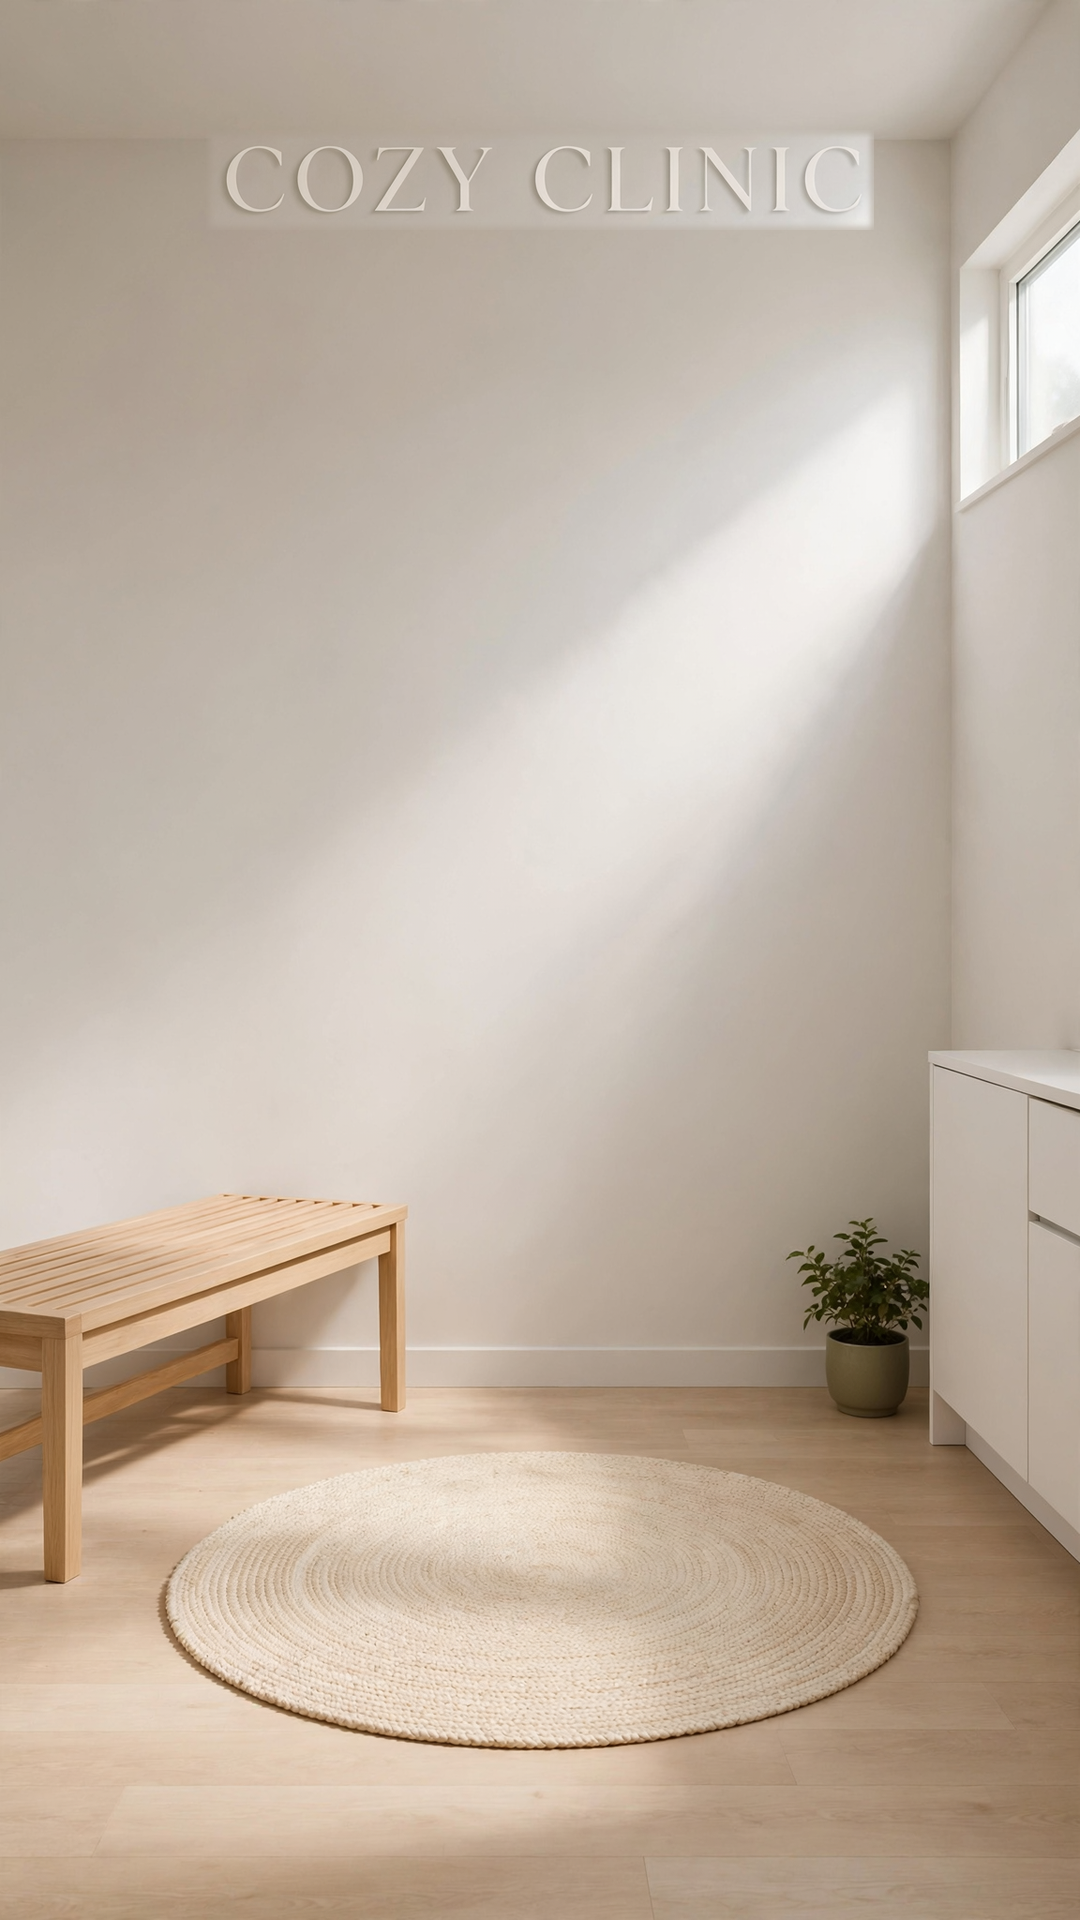
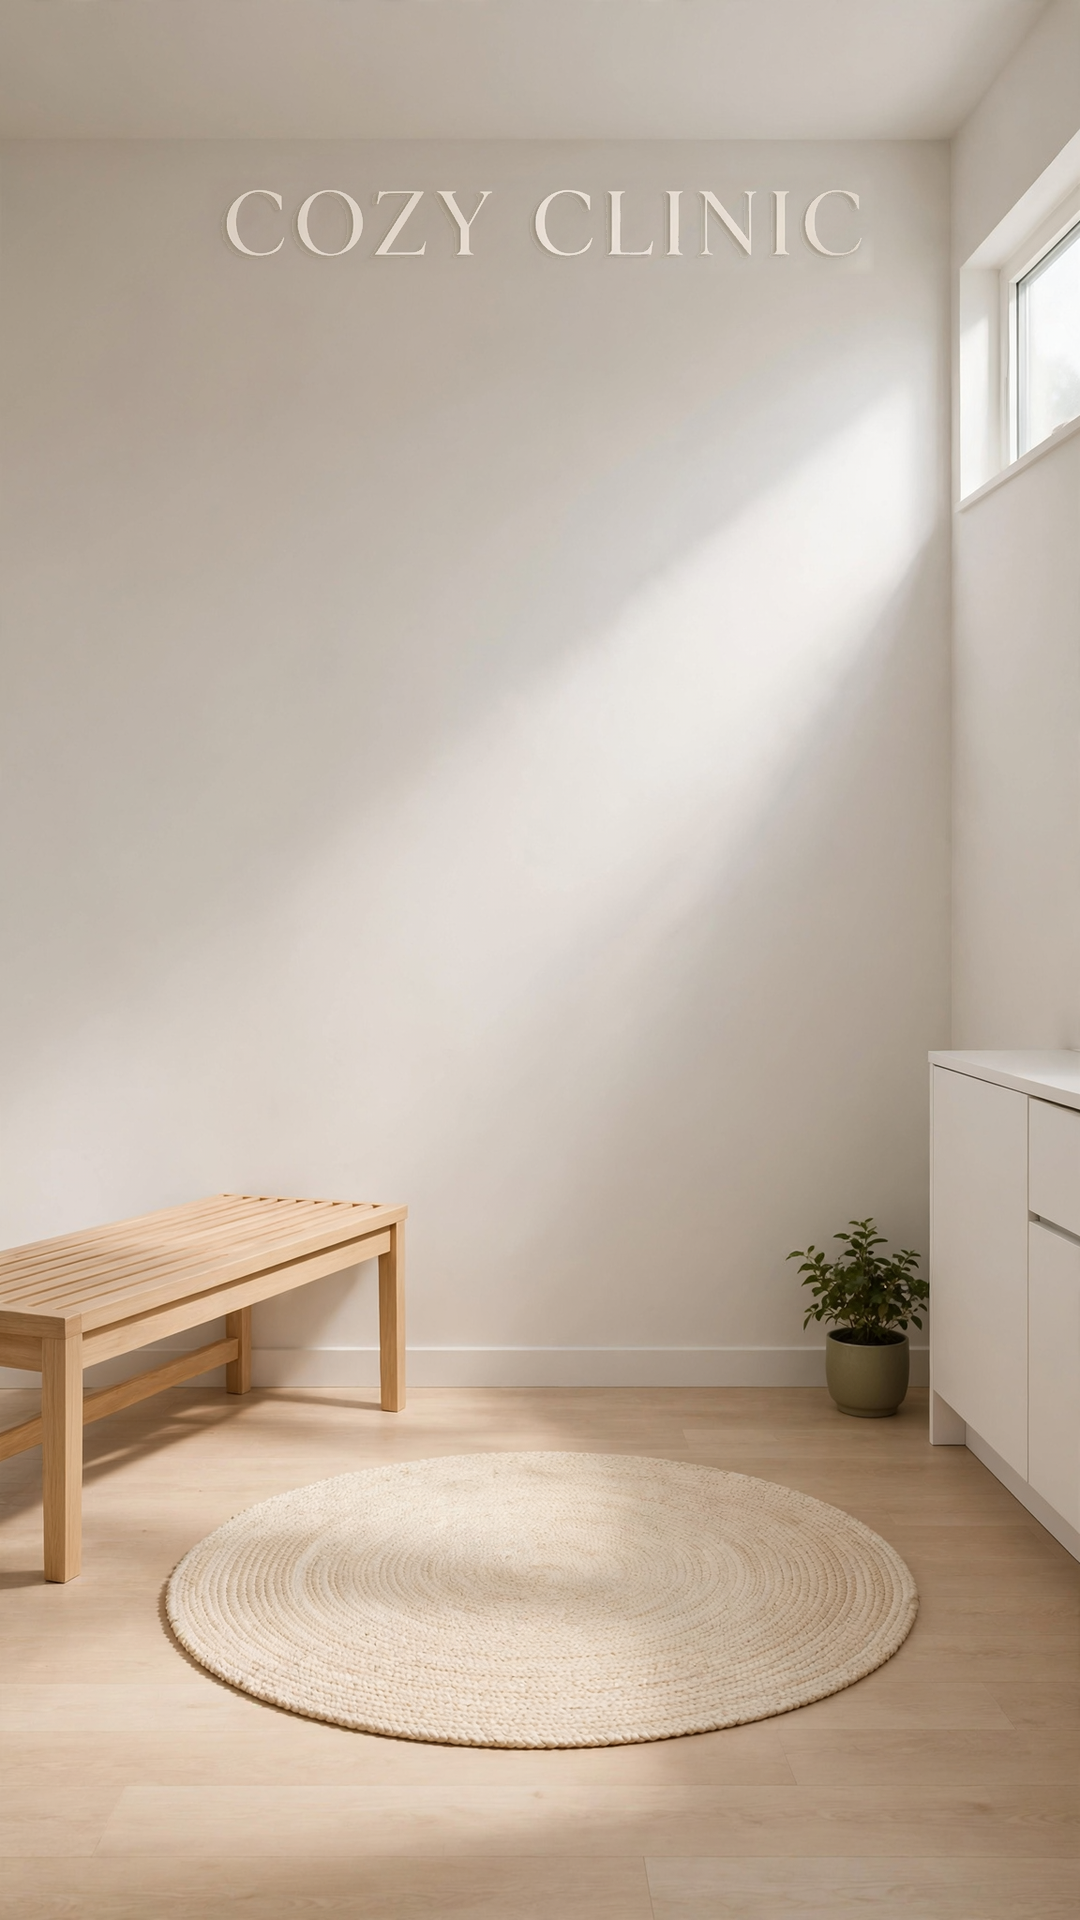
Sign3 + pathognomonic exam quizzes
- Sign letters onto the wall (y112) at readable-shy contrast, seams clean
- Exam bests reveal THE finding (turgor, Centor, wheeze, cuff); wrong picks
  clearly wrong; pairing test added
- Auditor 0 findings; 91/91; tsc clean; build green

diff --git a/src/clinical/conditions.ts b/src/clinical/conditions.ts
@@ -24,9 +24,9 @@ export const CONDITIONS: Record<string, ConditionDef> = {
     name: 'Dehydration',
     plainWords: 'Not enough water in the body. Everything feels dry and slow.',
     examOptions: [
-      { id: 'lung-sounds', label: 'Lung sounds' },
+      { id: 'throat-swab', label: 'Throat swab' },
       { id: 'skin-spring', label: 'Skin spring-back' },
-      { id: 'ear-peek', label: 'Ear peek' },
+      { id: 'belly-sounds', label: 'Belly sounds' },
     ],
     examBestId: 'skin-spring',
     bestFinding: 'Lifted skin stays peaked — poor turgor, very dry inside.',
@@ -85,7 +85,7 @@ export const CONDITIONS: Record<string, ConditionDef> = {
     plainWords: 'A common cold: sniffles, sneezes, and a worn-out feeling.',
     examOptions: [
       { id: 'neck-glands', label: 'Neck glands' },
-      { id: 'runny-nose', label: 'Runny nose' },
+      { id: 'skin-spring', label: 'Skin spring-back' },
       { id: 'belly-sounds', label: 'Belly sounds' },
     ],
     examBestId: 'neck-glands',
@@ -144,17 +144,17 @@ export const CONDITIONS: Record<string, ConditionDef> = {
     name: 'Asthma',
     plainWords: 'Tight, twitchy airways that turn breaths whistly.',
     examOptions: [
-      { id: 'temperature', label: 'Temperature' },
-      { id: 'ear-peek', label: 'Ear peek' },
-      { id: 'peak-flow', label: 'Peak-flow blows' },
+      { id: 'throat-swab', label: 'Throat swab' },
+      { id: 'ankle-check', label: 'Ankle check' },
+      { id: 'wheeze-listen', label: 'Listen for the whistle' },
     ],
-    examBestId: 'peak-flow',
-    bestFinding: 'The blow number is low — air is leaving the lungs slowly.',
+    examBestId: 'wheeze-listen',
+    bestFinding: 'Soft whistles on breathing out — the classic asthma sound.',
     dxOptions: ['viral-respiratory', 'asthma', 'dehydration'],
     examQuiz: {
-      gentle: "{name}'s breaths sound whistly. What do you measure first?",
-      steady: 'Whistly breaths and a tight chest. What do you measure first?',
-      expert: '{demo} with wheeze. Which bedside measure tracks the flare?',
+      gentle: "{name}'s chest feels tight and funny. What do you check first?",
+      steady: 'Tight chest, hard to breathe. What do you check first?',
+      expert: '{demo} with chest tightness. Which check reveals the key finding?',
     },
     stages: [
       { id: 'clear', label: 'Clear', blurb: 'Breathing easy.', says: "Just here for my check-in — I'm breathing easy!" },
@@ -204,9 +204,9 @@ export const CONDITIONS: Record<string, ConditionDef> = {
     name: 'High Blood Pressure',
     plainWords: 'Blood pressure running higher than it should be.',
     examOptions: [
-      { id: 'temperature', label: 'Temperature' },
+      { id: 'ear-peek', label: 'Ear peek' },
       { id: 'recuff', label: 'Re-check the cuff' },
-      { id: 'ankle-check', label: 'Ankle check' },
+      { id: 'throat-swab', label: 'Throat swab' },
     ],
     examBestId: 'recuff',
     bestFinding: 'After five quiet minutes the cuff still reads high — it counts.',

diff --git a/src/clinical/engine.test.ts b/src/clinical/engine.test.ts
@@ -1,6 +1,6 @@
 import { describe, expect, it } from 'vitest';
 import { ClinicalEngine } from './engine';
-import { CONDITIONS, CONDITION_TIER_NAMES } from './conditions';
+import { CONDITIONS, CONDITION_TIER_NAMES, EXAM_OTHER_FINDING } from './conditions';
 import type { ConditionId } from './types';
 
 const CONDITION_IDS = Object.keys(CONDITIONS) as ConditionId[];
@@ -186,5 +186,21 @@ describe('shipped copy', () => {
       d.examOptions.findIndex((o) => o.id === d.examBestId),
     );
     expect(new Set(examSlots).size).toBeGreaterThan(1);
+  });
+
+  it('pairs each exam quiz with its distinctive finding', () => {
+    // The best step must reveal THE finding worth teaching —
+    // turgor, Centor nodes, wheeze, repeat cuff — and wrong
+    // picks must read as wrong, never as alternate credit.
+    const keywords: Record<ConditionId, string> = {
+      dehydration: 'turgor',
+      'viral-respiratory': 'Centor',
+      asthma: 'whistle',
+      hypertension: 'cuff',
+    };
+    for (const def of Object.values(CONDITIONS)) {
+      expect(def.bestFinding).toContain(keywords[def.id]);
+      expect(EXAM_OTHER_FINDING).not.toContain(keywords[def.id]);
+    }
   });
 });

diff --git a/CHECKPOINT.md b/CHECKPOINT.md
@@ -1,18 +1,17 @@
-# CHECKPOINT — Sign restyle (2026-10-29)
+# CHECKPOINT — Sign3 + pathognomonic quizzes (2026-10-29)
 
-Phase: subtle wall lettering. Oak plaques out; single-line
-COZY CLINIC painted on the plaster (wide, larger, shy) on
-exam-a/b + waiting-a/b, centered in the clear band, seams
-invisible. No code touched.
-Files: 4 plates, manifest, contact sheet, auditor,
-PROGRESS.
-Test result: auditor 0 findings; `npm test` 90/90; tsc clean;
+Phase: operator round-3 notes. Sign letters sit on the wall
+(center y112) at a readable-but-shy contrast, seams
+invisible; exam options rewritten so each best step reveals
+THE distinctive finding (turgor, Centor nodes, wheeze, repeat
+cuff) with clearly-wrong distractors; pairing test added.
+Files: 4 plates, conditions.ts + tests, auditor,
+UI_PROTOTYPE, manifest, PROGRESS.
+Test result: auditor 0 findings; `npm test` 91/91; tsc clean;
 build green.
 Deployment URL: `https://cozy-clinic.vercel.app/` (live-polled
 200 after push).
 Playtest result: operator playing live ("plays nicely").
-Image spend this run: $0.04 (ledger ~$0.55 cumulative).
-Deferred per operator: demo video + README paragraph (need
-real captures); maneuver library still paused.
+Image spend this run: $0.00 (ledger ~$0.55 cumulative).
 
 STOP.

diff --git a/PROGRESS.md b/PROGRESS.md
@@ -1689,3 +1689,22 @@ clearance — then a polish fix loop for real findings.
   exam round is case quizzes now).
 - Verification: auditor 0 findings; 90/90; tsc clean; build green.
 - Spend $0.04 (ledger ~$0.55 cumulative).
+
+## Sign3 + pathognomonic quizzes (2026-10-29)
+
+- OWNERSHIP: 4 room plates, `src/clinical/conditions.ts` +
+  `engine.test.ts`, auditor, UI_PROTOTYPE, manifest note,
+  contact sheet, PROGRESS/CHECKPOINT. No scene changes.
+- Sign: letters moved down onto the wall proper (center
+  y112, kissing the panel top) + moderate contrast lift —
+  subtle but no longer extreme. Scripted-only ($0.00); a
+  compounding-lift misstep was caught by the equalized check
+  and redone as one clean pass from the sign2 files.
+- Exam quizzes rewritten around distinctive findings: turgor,
+  Centor nodes, expiratory wheeze (asthma best is now "Listen
+  for the whistle", peak flow retired), repeat cuff — with
+  clearly-wrong distractors (throat swab / belly sounds / ear
+  peek / ankle check placed where they make no sense). New
+  pairing test locks bestFinding keywords per condition.
+- Verification: auditor 0 findings; 91/91; tsc clean; build green.
+- Spend $0.00 (ledger ~$0.55 cumulative).

diff --git a/docs/UI_PROTOTYPE.md b/docs/UI_PROTOTYPE.md
@@ -133,8 +133,10 @@ scale 0.97 90ms yoyo + the existing tap-resolve path (happy bounce
 
 - Geometry: x24–516 (w492), y772–846 (h74). Every visit is a
   3-round mini-story, one 3-card row each (w156): EXAMINE (3
-  bedside checks UNIQUE to the case — e.g. a Centor-criterion
-  neck-gland check for sore throat — never a generic maneuver
+  bedside checks UNIQUE to the case — the best step reveals
+  THE distinctive finding worth teaching, e.g. a Centor-node
+  neck-gland check for sore throat or turgor for dehydration,
+  with clearly-wrong distractors — never a generic maneuver
   list), DIAGNOSE (3 tier-worded condition names), TREAT (3
   action cards). Tap target = full card. Undo rewinds rounds
   too (round + score in the snapshot).
